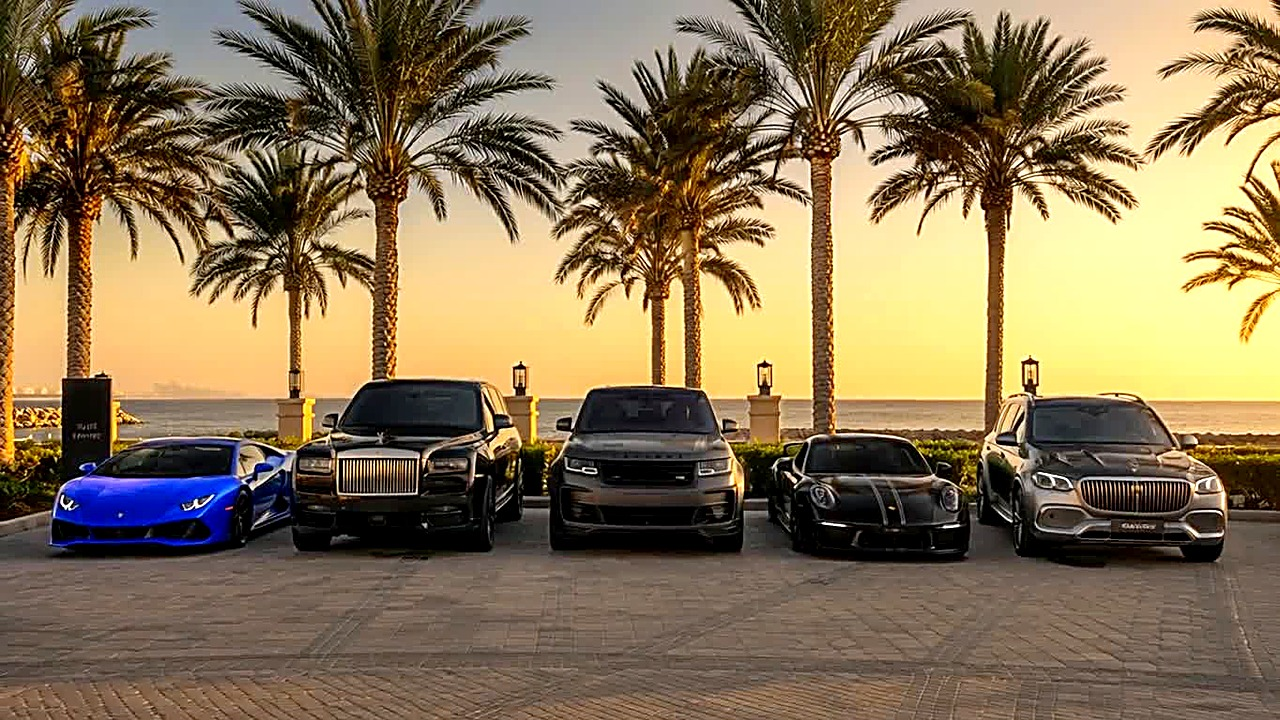
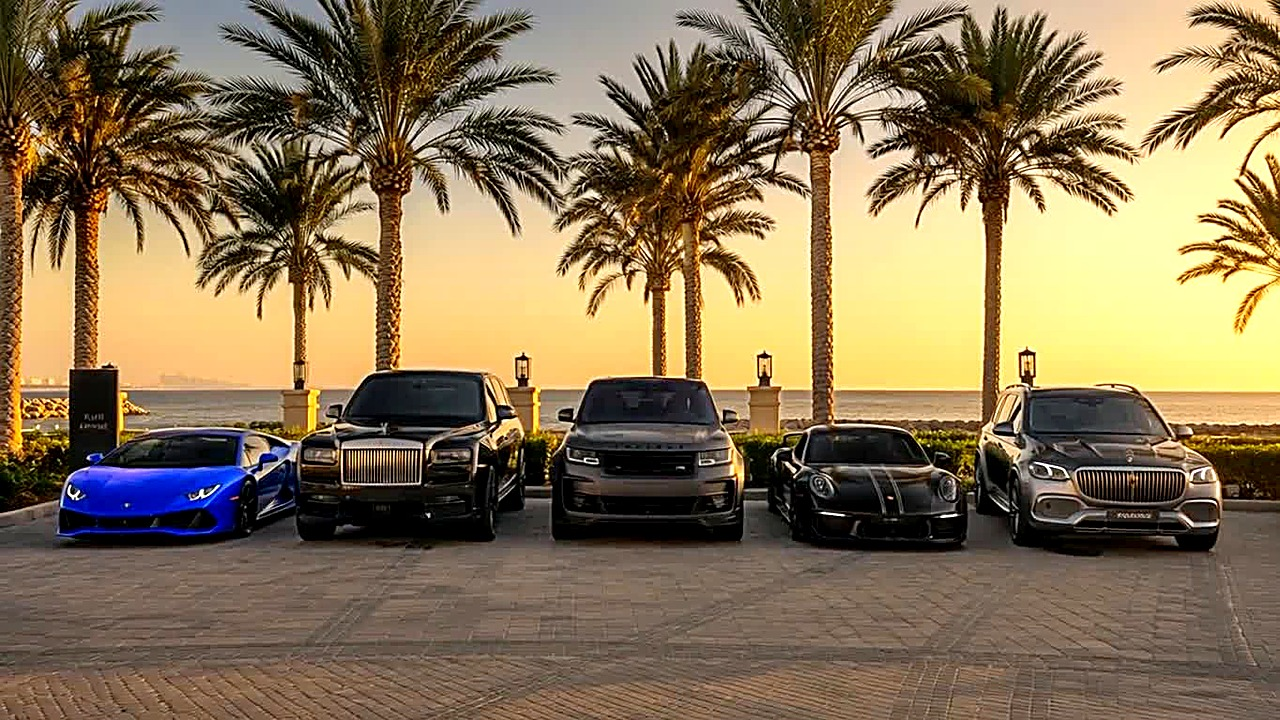
Publish backlog progress: sf_043 published, sf_042 quarantined (missing file), lf_014/015/016/017 thumbnails generated

diff --git a/youtube-automation/scripts/_publish_backlog.py b/youtube-automation/scripts/_publish_backlog.py
@@ -1,0 +1,126 @@
+#!/usr/bin/env python3
+"""One-off driver: publish the current ready_to_publish backlog in schedule
+order, stopping immediately on any uploadLimitExceeded. Not a permanent
+pipeline script -- ad hoc for clearing the pre-2026-08-04 batch backlog."""
+import json
+import subprocess
+import sys
+
+STATE = "state"
+
+
+def load(name):
+    with open(f"{STATE}/{name}.json") as f:
+        return json.load(f)
+
+
+def save(name, data):
+    with open(f"{STATE}/{name}.json", "w") as f:
+        json.dump(data, f, indent=2)
+
+
+def main():
+    sfq = load("short_form_queue")
+    lfq = load("long_form_queue")
+    wbp = load("weekly_batch_progress")
+    ph = load("posted_history")
+
+    sf_by_id = {x["id"]: x for x in sfq["queue"]}
+    lf_by_id = {x["id"]: x for x in lfq["queue"]}
+
+    ready = [it for it in wbp["current_batch"]["items"] if it["status"] == "ready_to_publish"]
+    ready.sort(key=lambda x: x["scheduled_publish_at"])
+
+    for it in ready:
+        cid = it["candidate_id"]
+        fmt = it["format"]
+        publish_at = it["scheduled_publish_at"]
+        print(f"\n=== item {it['index']}: {fmt} {cid} @ {publish_at} ===", flush=True)
+
+        if fmt == "short":
+            c = sf_by_id[cid]
+            file_path = f"assets/short-form-clips/processed/{cid}.mp4"
+            thumb_path = f"assets/short-form-clips/processed/{cid}_thumb.jpg"
+            cta = (c.get("cta_assignment") or {}).get("cta_variant_id", "cta_luxury_control")
+            cmd = [
+                "python3", "scripts/youtube_upload.py",
+                "--file", file_path,
+                "--title", c["title_pattern"],
+                "--description", c["seo_description"],
+                "--tags", ",".join(c.get("tags", [])),
+                "--category", "22",
+                "--privacy", "public",
+                "--publish-at", publish_at,
+                "--thumbnail", thumb_path,
+                "--short",
+                "--cta-variant", cta,
+            ]
+        else:
+            c = lf_by_id[cid]
+            file_path = c["final_video_path"]
+            thumb_path = c.get("thumbnail_path") or f"assets/long-form/thumbnails/{cid}_thumb.jpg"
+            cmd = [
+                "python3", "scripts/youtube_upload.py",
+                "--file", file_path,
+                "--title", c["title"],
+                "--description", c["seo_description"],
+                "--tags", ",".join(c.get("tags", [])),
+                "--category", "10",
+                "--privacy", "public",
+                "--publish-at", publish_at,
+                "--thumbnail", thumb_path,
+            ]
+
+        result = subprocess.run(cmd, capture_output=True, text=True)
+        out = result.stdout.strip()
+        err = result.stderr.strip()
+        print(out)
+        if err:
+            print("STDERR:", err, file=sys.stderr)
+
+        if "uploadLimitExceeded" in out or "uploadLimitExceeded" in err:
+            print(f"\n!!! QUOTA HIT at item {it['index']} ({cid}) -- stopping, no retry.")
+            it["status"] = "ready_to_publish"
+            it["publish_blocker"] = "uploadLimitExceeded -- stopped mid-backlog-clear, see script output"
+            save("weekly_batch_progress", wbp)
+            sys.exit(1)
+
+        if result.returncode != 0 or "PUBLISHED video_id=" not in out:
+            print(f"\n!!! UPLOAD FAILED (non-quota) at item {it['index']} ({cid}) -- stopping for manual review.")
+            sys.exit(1)
+
+        video_id = out.split("PUBLISHED video_id=")[1].split()[0]
+
+        if fmt == "short":
+            c["status"] = "published"
+            ph.setdefault("short_form", []).append({
+                "candidate_id": cid,
+                "video_id": video_id,
+                "published_at": publish_at,
+                "title": c["title_pattern"],
+            })
+        else:
+            c["status"] = "published"
+            ph.setdefault("long_form", []).append({
+                "candidate_id": cid,
+                "video_id": video_id,
+                "published_at": publish_at,
+                "title": c["title"],
+                "format": "long",
+                "duration_minutes": c.get("actual_duration_minutes"),
+            })
+
+        it["status"] = "done"
+
+        save("short_form_queue", sfq)
+        save("long_form_queue", lfq)
+        save("posted_history", ph)
+        save("weekly_batch_progress", wbp)
+
+        print(f"Recorded {cid} -> {video_id}")
+
+    print("\nAll ready_to_publish items processed successfully.")
+
+
+if __name__ == "__main__":
+    main()
